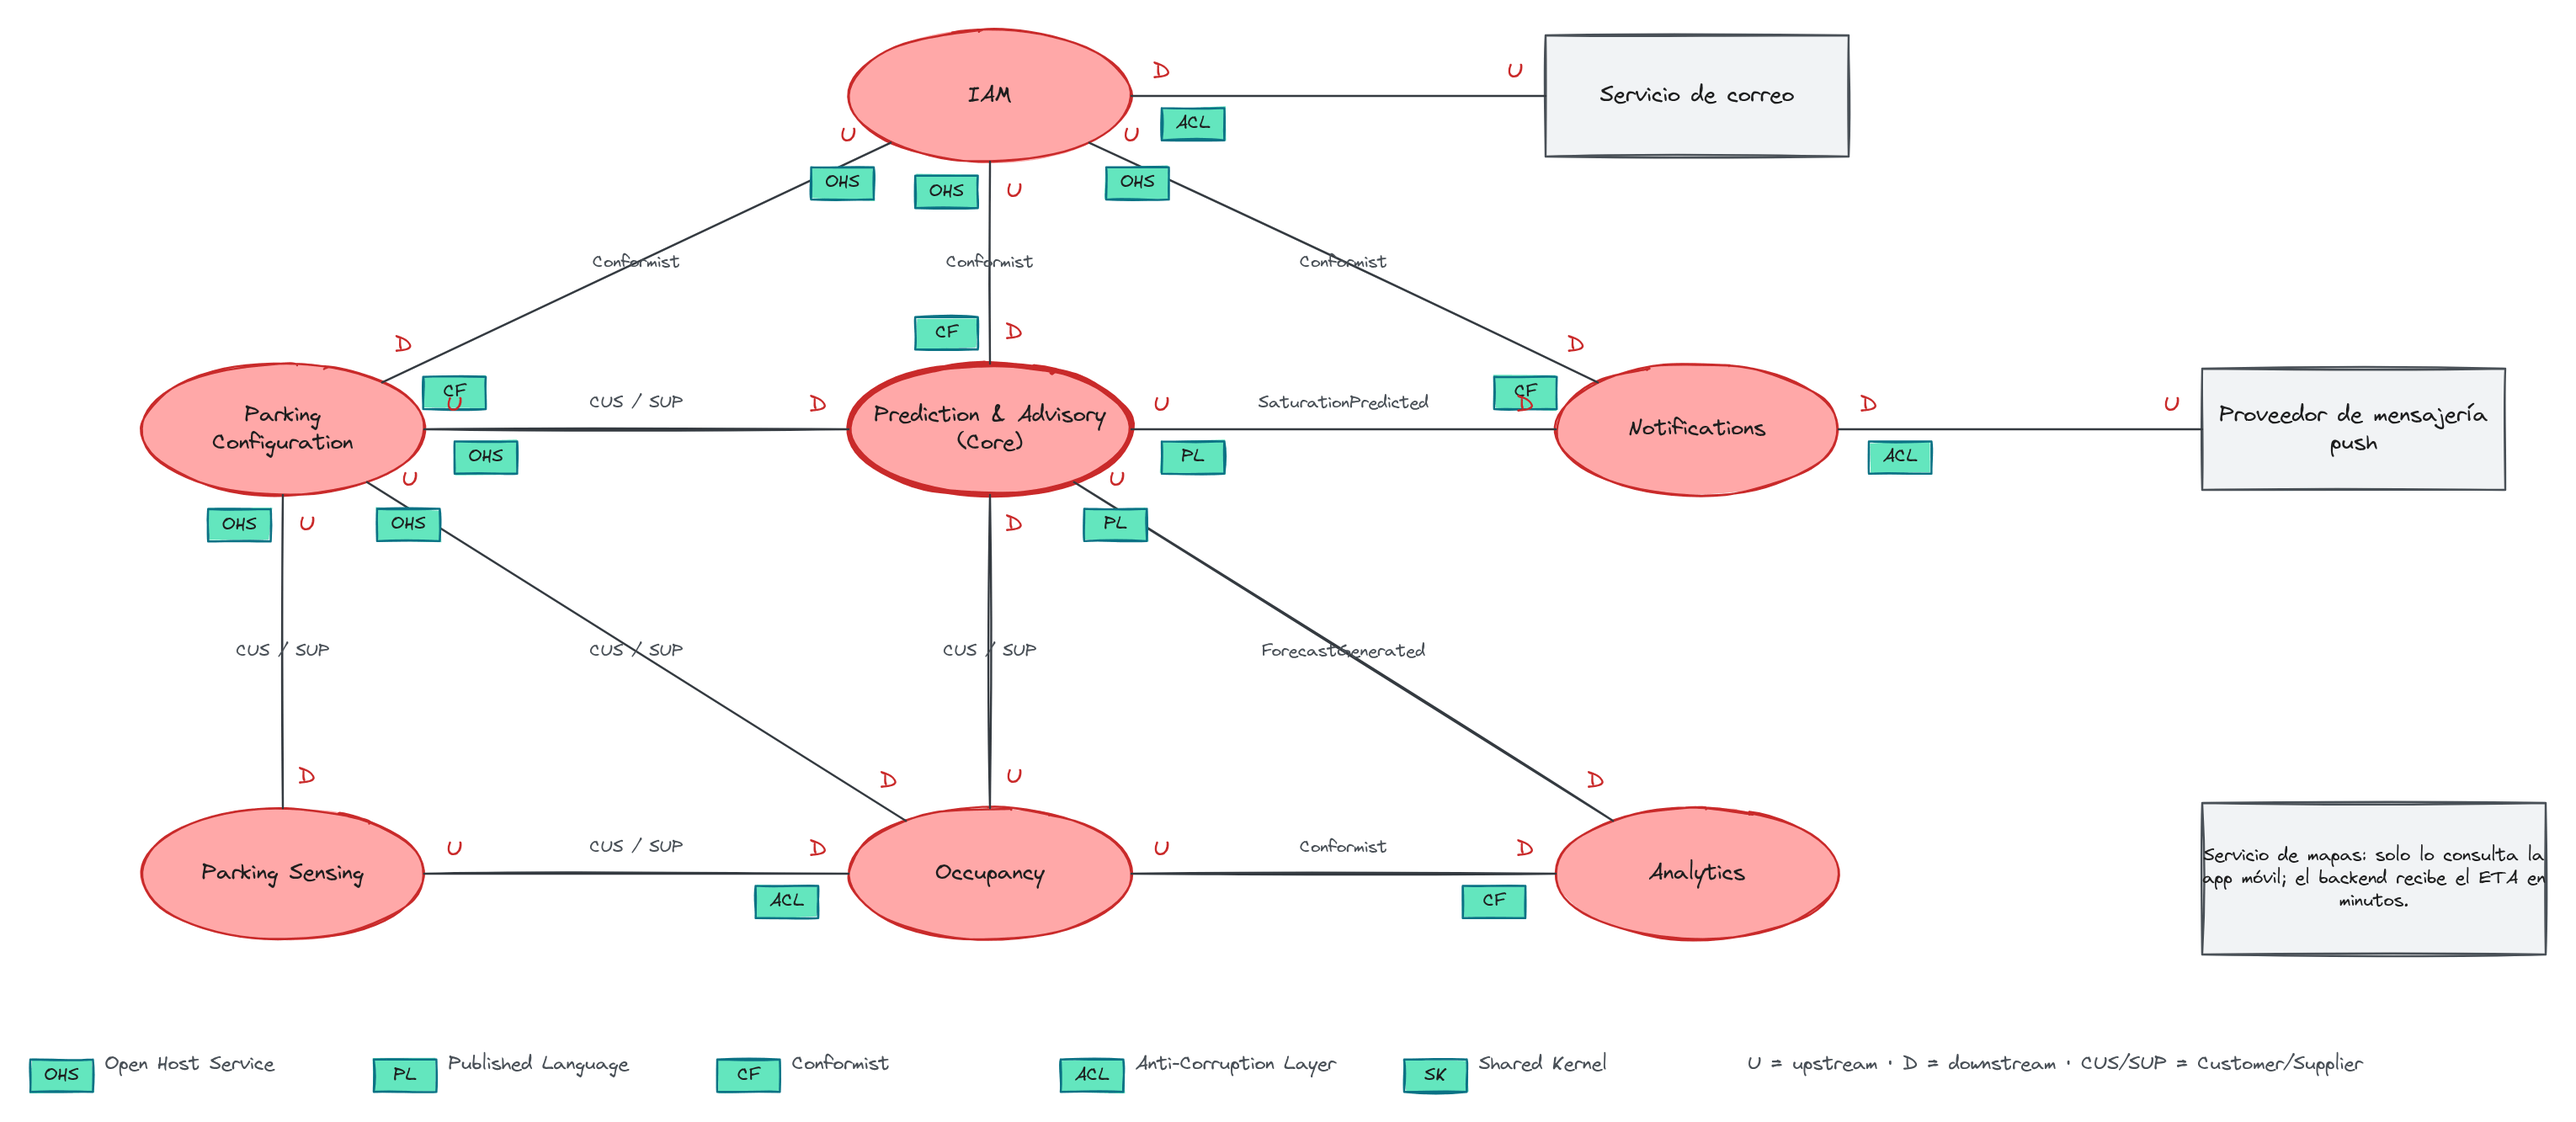
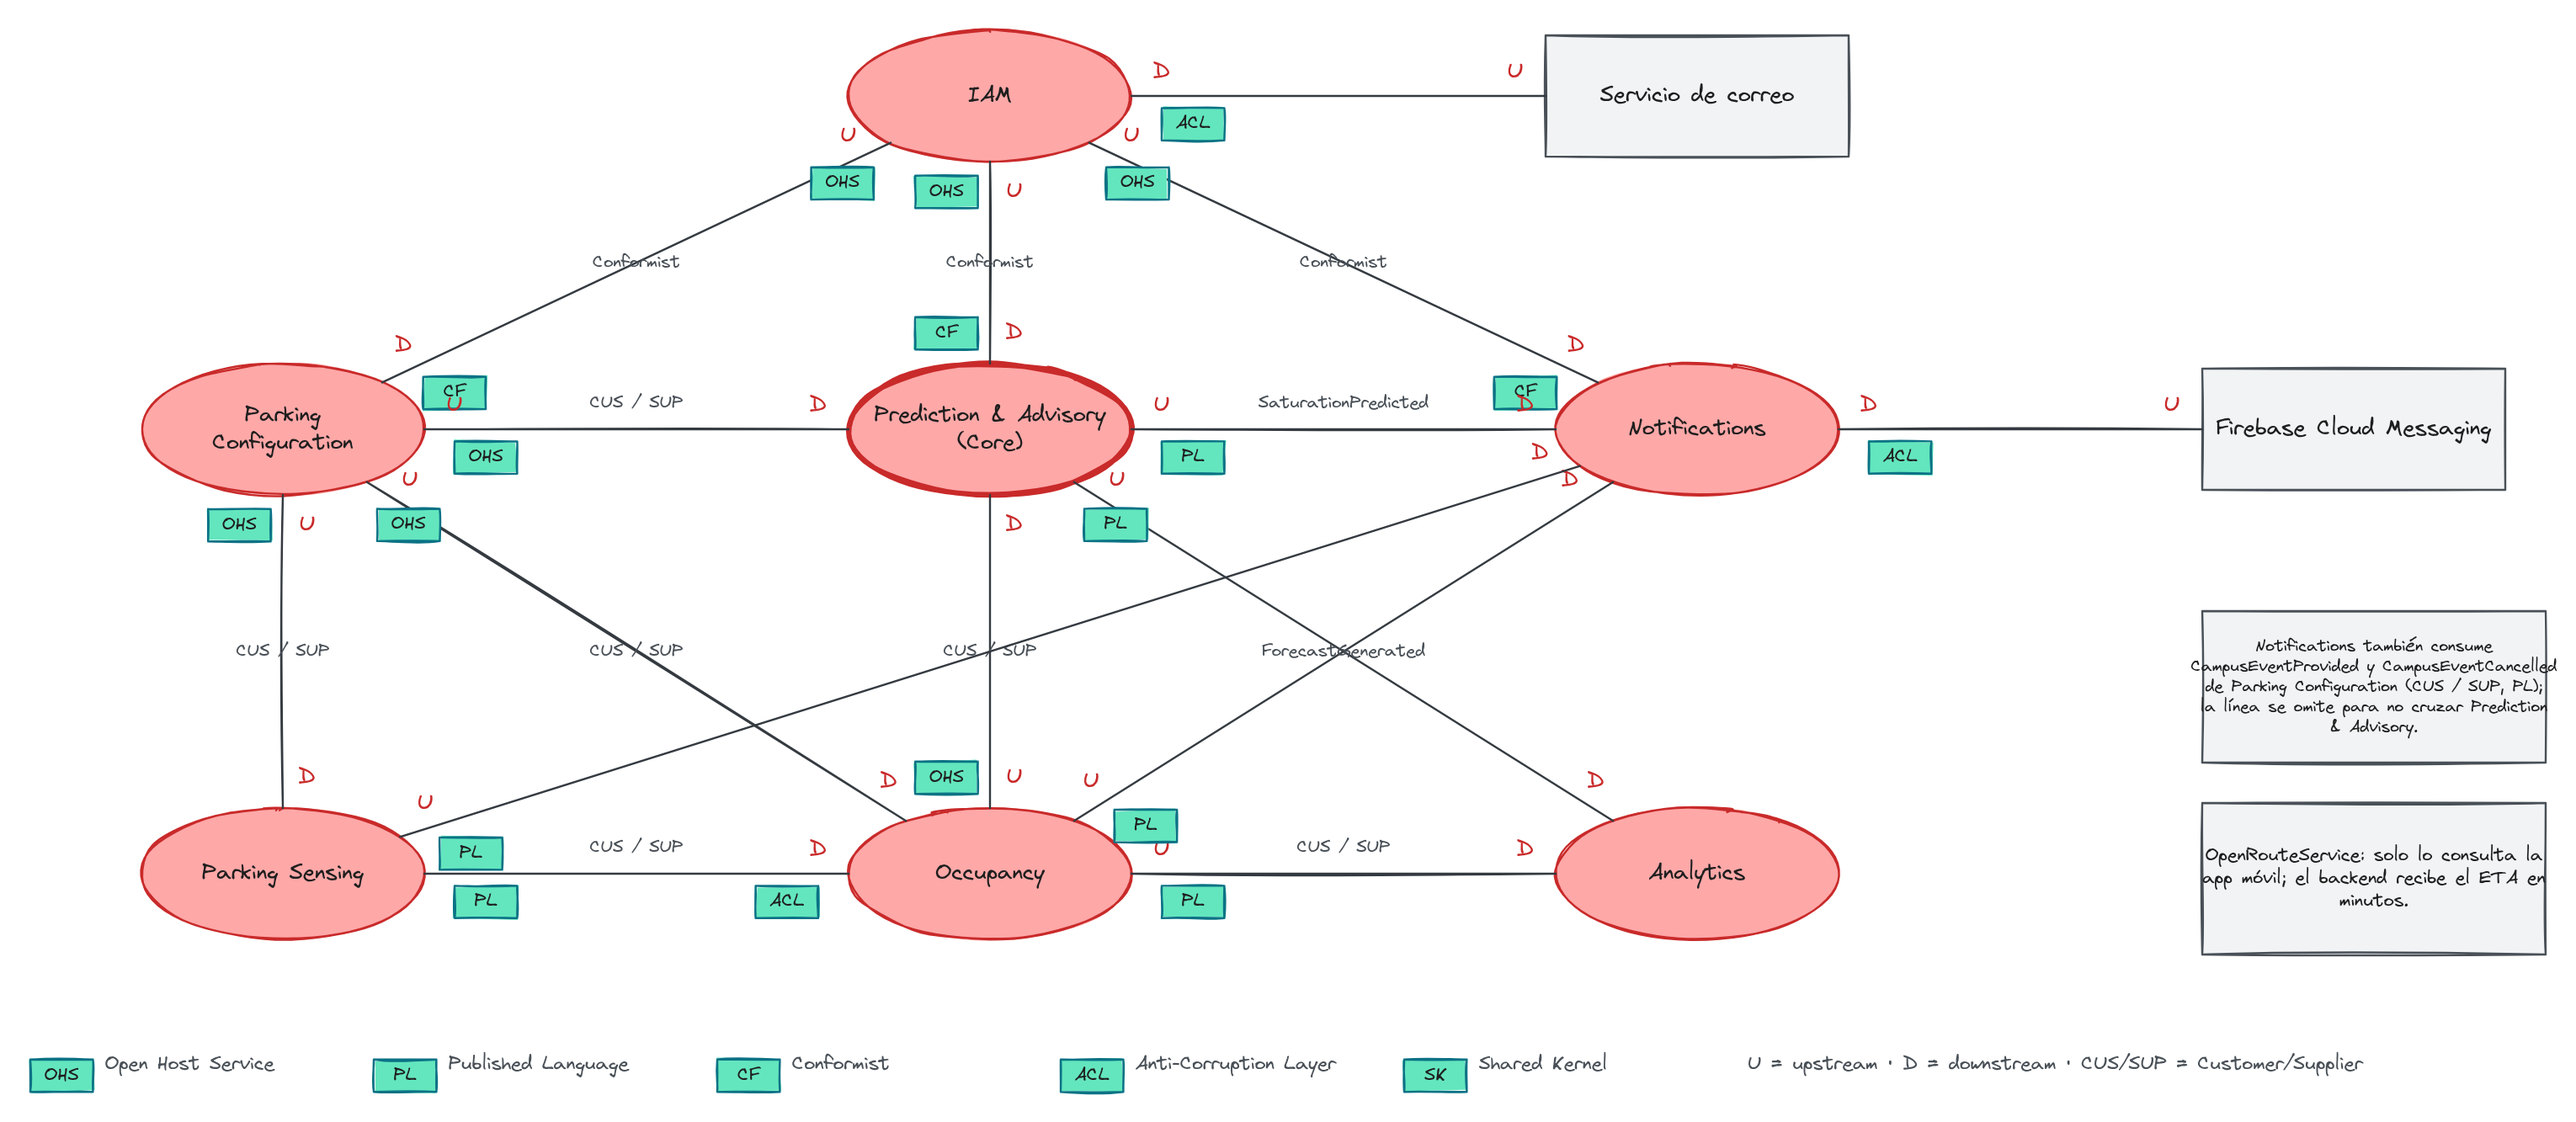
docs(chapter-04): redraw context map option 3

diff --git a/README.md b/README.md
@@ -3732,7 +3732,7 @@ También se decide utilizar Customer/Supplier con Published Language entre Occup
 
 Prediction & Advisory permanece como el Core Domain de Quadrapp y recibe únicamente la información necesaria para generar pronósticos y asesoría, de Occupancy y de Parking Configuration; no depende de Analytics. Su modelo de predicción se ejecuta dentro del propio contexto (DD-10). Sus resultados se exponen mediante contratos publicados hacia Analytics y Notifications, evitando que estos contextos dependan de la implementación interna del modelo predictivo.
 
-En el mapa final, Parking Configuration, Occupancy, Parking Sensing y Prediction & Advisory actúan como Open Host Service, mediante sus fachadas en proceso, y como Published Language, mediante sus eventos de dominio. Notifications es downstream de Prediction & Advisory, Occupancy, Parking Sensing y Parking Configuration, y entrega solo notificaciones push; IAM conserva el correo para los códigos de un solo uso y las invitaciones, detrás de una Anti-Corruption Layer. El diagrama de la Opción 3 todavía muestra la relación entre Occupancy y Analytics como Conformist y no incluye las dependencias de Notifications con Occupancy, Parking Sensing y Parking Configuration; en caso de discrepancia, prevalece lo descrito en este texto.
+En el mapa final, Parking Configuration, Occupancy, Parking Sensing y Prediction & Advisory actúan como Open Host Service, mediante sus fachadas en proceso, y como Published Language, mediante sus eventos de dominio. Notifications es downstream de Prediction & Advisory, Occupancy, Parking Sensing y Parking Configuration, y entrega solo notificaciones push; IAM conserva el correo para los códigos de un solo uso y las invitaciones, detrás de una Anti-Corruption Layer. En el diagrama de la Opción 3, la relación de Notifications con Parking Configuration se indica en una nota, para que su línea no cruce Prediction & Advisory.
 
 ## 4.3. Software Architecture
 
